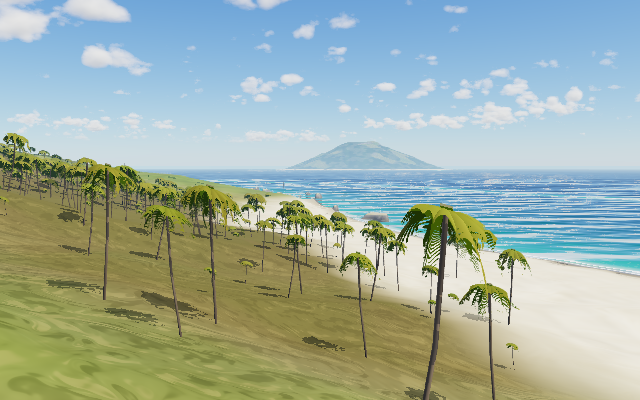
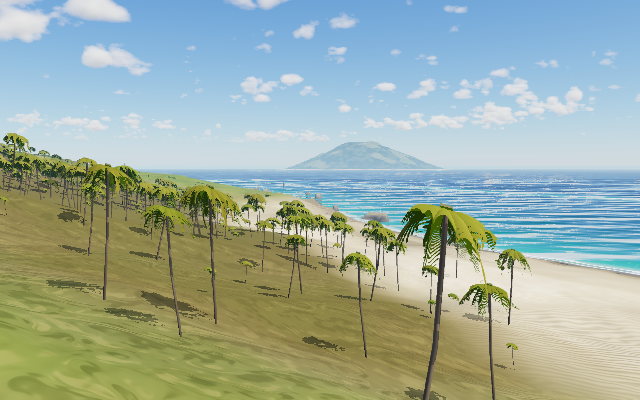
tropical_island: a beach that reads as sand at preview size (#118)
Under a high sun behind the camera, pale sand sits on the ACES shoulder:
linear albedo 0.5 already comes out at sRGB 222, and a fifth less light
moves the output by about 5 code values. So slopes alone, and darker
albedo alone (#127), barely showed. fc_midground.ps gets larger relief on
the beach, shading only and off by default, whose tone carries it:

- MidSwell, MidSwellK: swells and hummocks on the dry sand (10 x 18 and
  3.5 x 5 units along the wind) with darker troughs
- MidRipple, MidRippleL, MidRippleK: wind ripples near the camera, in
  patchy fields, with darker troughs
- MidBerm [d w s k]: the berm's crest, its face and backslope, and a
  darker, damper foreshore below it
- MidDampGraze: damp sand keeps some darkening at a glancing angle

tropical_island turns them on, with wider damp sand (MidDamp 6) and
slightly darker, warmer sand (CoastSand [0.74 0.68 0.55]).

Claude-Session: https://claude.ai/code/session_016y8NtTPdgbbuzzNmswesSy

diff --git a/docs/settings.md b/docs/settings.md
@@ -821,11 +821,17 @@ way and shifted by the coarser ones (no tiling). Noise only, no `rand`.
 | Setting | Default | What it does | Used |
 |---|---|---|---|
 | `MidGrass` | 0 | 0–1: meadow texture. Broad patches (7 and 2.6 units' wavelength) of lush, deeper green (`MidLush`) and drier swathes toward straw (`MidStraw`), then straw tufts and darker clumps (0.38 and 0.15 units; a 1-unit octave breaks up the dry swathes) and a fine mottle. | 1 in pnw_coast, tropical_island |
-| `MidSand` | 0 | 0–1: beach texture, above the water only: lighter and darker drifts stretched along the wind (`MidWind`; 3 × 0.6 and 0.8 × 0.15 units) with a grainy mottle close up; damp, darker sand within about `MidDamp` of the water (its edge wandering; it fades out where the ray grazes the sand, which then mirrors the sky, `WetSand`); and a wrack line (`MidWrack`) 0.25 units wide at each distance in `MidTide`, broken into clumps once they span a few pixels along it, and weighed by its share of the footprint along the ray, so far off it thins to a faint line instead of an outline. Meant for sand: on cobbles (`/PNWCoast`) the drifts read as marbling. | 1 in tropical_island |
+| `MidSand` | 0 | 0–1: beach texture, above the water only: lighter and darker drifts stretched along the wind (`MidWind`; 3 × 0.6 and 0.8 × 0.15 units) with a grainy mottle close up; damp, darker sand within about `MidDamp` of the water (its edge wandering; it fades out where the ray grazes the sand, which then mirrors the sky, `WetSand`, down to `MidDampGraze`); and a wrack line (`MidWrack`) 0.25 units wide at each distance in `MidTide`, broken into clumps once they span a few pixels along it, and weighed by its share of the footprint along the ray, so far off it thins to a faint line instead of an outline. Meant for sand: on cobbles (`/PNWCoast`) the drifts read as marbling. | 1 in tropical_island |
 | `MidBump` | 0 | Micro-relief on that grass and sand: three octaves of a height noise (1.7, 0.65 and 0.25 units), each `MidBump` × its wavelength / 10 high; their slope tilts the shading normal and their hollows see up to a quarter less sky (what shows under overcast). Sand gets 1.5 times as much. | 1 in pnw_coast, tropical_island |
 | `MidStraw`, `MidWrack` | [0.62 0.56 0.36], [0.30 0.26 0.20] | sRGB: dry straw in the meadow; the strandlines' wrack. | |
 | `MidLush` | [0.80 0.95 0.70] | Multiplier on the albedo in lush patches (deeper, more saturated green). | |
-| `MidDamp` | 4 | Damp sand reaches about this far (units) from the water, ±40%. | |
+| `MidDamp` | 4 | Damp sand reaches about this far (units) from the water, ±40%. | 6 in tropical_island |
+| `MidDampGraze` | 0 | The share of the damp sand's darkening it keeps where the ray grazes the sand (#118); 0 fades it out there entirely, as before. | 0.5 in tropical_island |
+| `MidSwell` | 0 | Broad swells and hummocks on the dry sand (landward of the damp sand; a quarter as much on it), #118: two octaves of a height noise stretched along `MidWind` (10 × 18 and 3.5 × 5 units), as steep as about `MidSwell`. Shading only: they tilt the normal and their hollows see up to a fifth less sky. | 0.6 in tropical_island |
+| `MidSwellK` | 0 | The swells' troughs darker and their crests lighter, by up to 0.6 × this of the albedo (heavy grains and damp collect in hollows). A high sun behind the camera puts pale sand on the tone curve's shoulder, where the slopes alone barely change the tone: this is what makes the swells show. | 1 in tropical_island |
+| `MidRipple`, `MidRippleL` | 0, 0.4 | Wind ripples on the dry sand (#118): crests across `MidWind`, wandering, `MidRippleL` units apart, in patchy fields, with a gentle stoss and a steeper lee, as steep as about `MidRipple`. Shading only; like every octave here they fade to nothing under 2.5 footprints, so they show only near the camera. | 0.5 in tropical_island |
+| `MidRippleK` | 0 | The ripples' troughs darker, their crests lighter, by up to 0.6 × this. | 0.5 in tropical_island |
+| `MidBerm` | null | `[d w s k]` (#118): the berm's crest about `d` units (the coast's wobbled distance, wandering by 1.5 `w`) from the water, its face `w` wide and as steep as `s`, a gentle backslope behind it, and the foreshore below the crest darker by `k` (moister, a little cooler). Shading only; needs `fc_coast.ps`. | [12 3 0.5 0.2] in tropical_island |
 | `MidTide` | [5 13] | Strandlines: their distances (units, the coast's wobbled distance) from the water, each wandering by 30% of it. `[]`: none. | |
 | `MidWind` | null | Degrees from +x toward +z (as `WindDir`): the direction sand drifts run along. null: `WindDir` when the water defines it, else 37. | |
 
